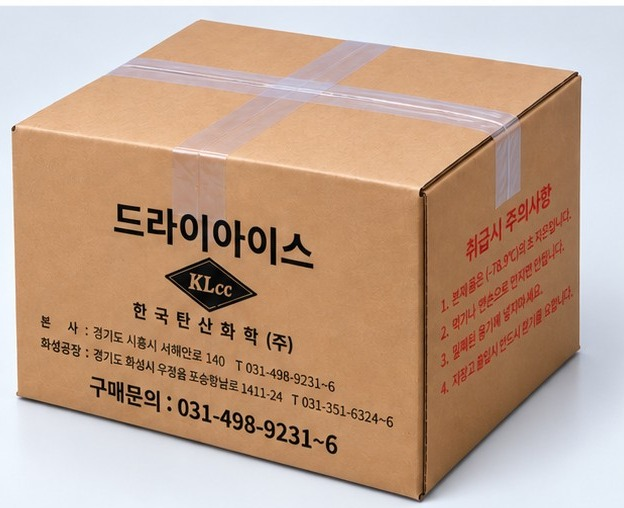
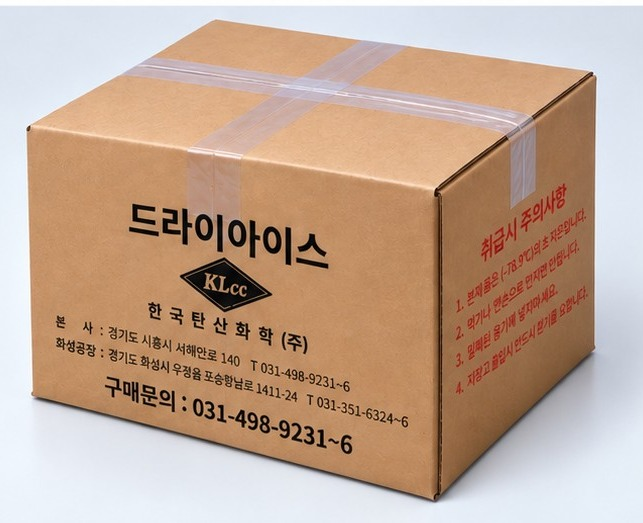
드라이아이스 블록 포장 프로세스 3번 사진 5% 추가 축소(누적). proc3.jpg?v=k

diff --git a/products-ice.html b/products-ice.html
@@ -415,7 +415,7 @@
                 <ol class="proc4">
                   <li class="proc4__step"><div class="proc4__media"><img src="assets/images/site/icespec/proc1.jpg?v=20260911b" alt="비닐 라이너 준비" loading="lazy"></div><b><span class="proc4__n">1</span>비닐 라이너 준비</b><p>박스 안에 비닐(라이너)을 깔아줍니다.</p></li>
                   <li class="proc4__step"><div class="proc4__media"><img src="assets/images/site/icespec/proc2.jpg?v=20260911d" alt="블록 담기" loading="lazy"></div><b><span class="proc4__n">2</span>블록 담기</b><p>드라이아이스 블록을 담습니다.</p></li>
-                  <li class="proc4__step"><div class="proc4__media"><img src="assets/images/site/icespec/proc3.jpg?v=20260911j" alt="박스 포장" loading="lazy"></div><b><span class="proc4__n">3</span>박스 포장</b><p>내용물이 담긴 박스를 밀봉하여 포장합니다.</p></li>
+                  <li class="proc4__step"><div class="proc4__media"><img src="assets/images/site/icespec/proc3.jpg?v=20260911k" alt="박스 포장" loading="lazy"></div><b><span class="proc4__n">3</span>박스 포장</b><p>내용물이 담긴 박스를 밀봉하여 포장합니다.</p></li>
                   <li class="proc4__step"><div class="proc4__media"><img src="assets/images/site/icespec/proc4.jpg?v=20260911b" alt="외부 비닐 포장" loading="lazy"></div><b><span class="proc4__n">4</span>외부 비닐 포장</b><p>외부 비닐로 한 번 더 포장하여 출고합니다.</p></li>
                 </ol>
               </div>
